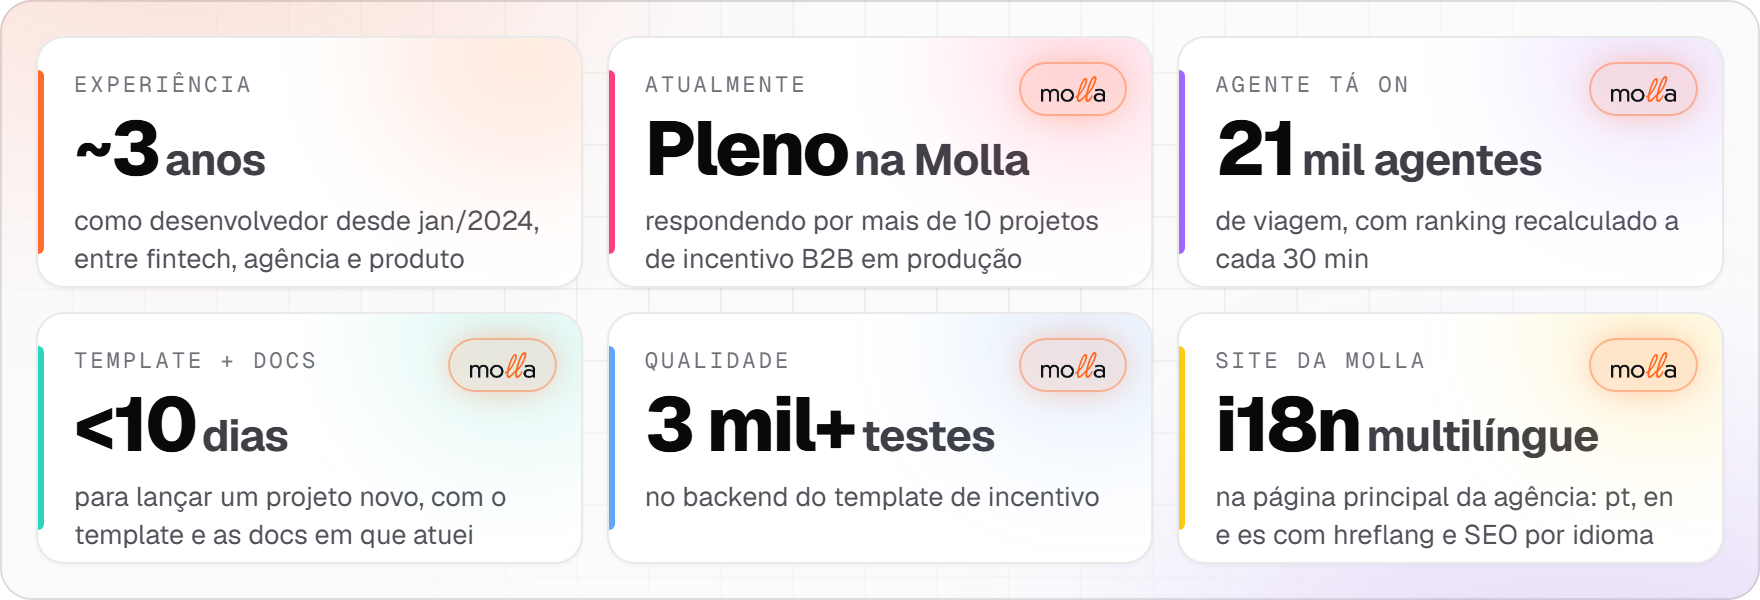
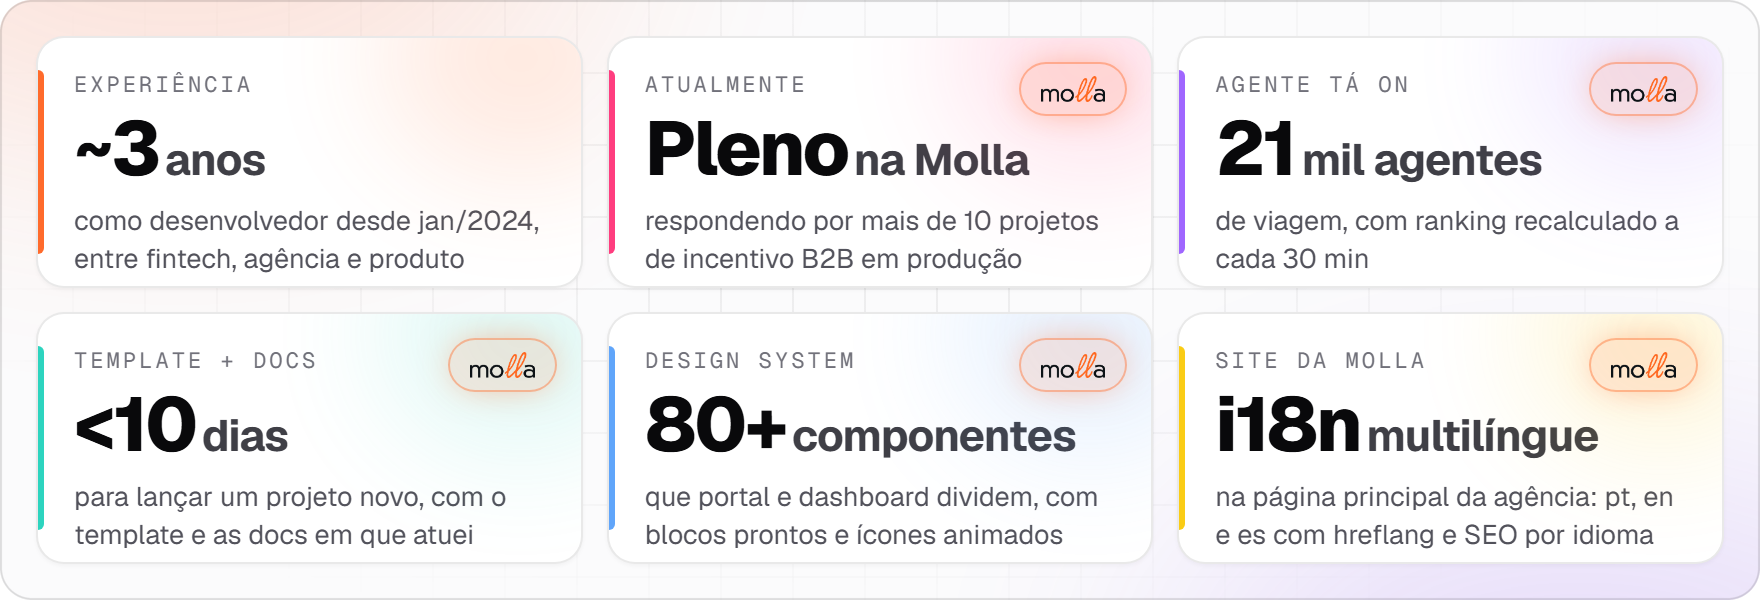
docs: troca o card de testes pelo do design system nos números de 2026

Changed region(s): [[0.375, 0.81, 0.625, 0.93], [0.3438, 0.66, 0.625, 0.75], [0.375, 0.57, 0.5, 0.63]]

diff --git a/README.md b/README.md
@@ -13,7 +13,7 @@ Sou desenvolvedor full stack pleno na [Agência Molla](https://www.linkedin.com/
 
 ### O que construí em 2026
 
-<picture><source media="(prefers-color-scheme: dark)" srcset="./assets/numeros-2026.png" /><img src="./assets/numeros-2026-claro.png" alt="2026 em números: cerca de 3 anos de experiência, pleno na Molla com mais de 10 projetos em produção, 21 mil agentes no Agente Tá On, menos de 10 dias para lançar um projeto com o template e as docs, mais de 3 mil testes no backend do template e o novo site da Molla, multilíngue" width="100%" /></picture>
+<picture><source media="(prefers-color-scheme: dark)" srcset="./assets/numeros-2026.png" /><img src="./assets/numeros-2026-claro.png" alt="2026 em números: cerca de 3 anos de experiência, pleno na Molla com mais de 10 projetos em produção, 21 mil agentes no Agente Tá On, menos de 10 dias para lançar um projeto com o template e as docs, um design system com mais de 80 componentes e o novo site da Molla, multilíngue" width="100%" /></picture>
 
 Projetos da Molla, em repositórios privados:
 
